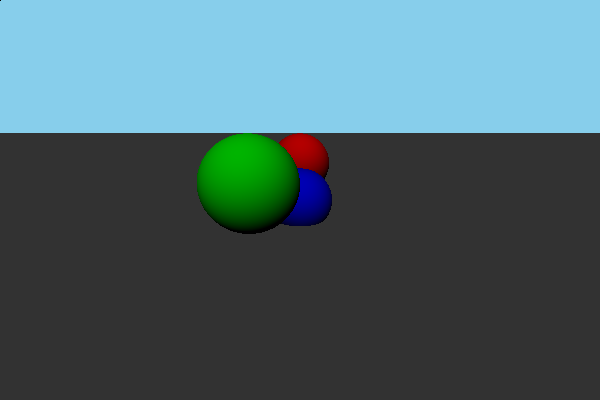
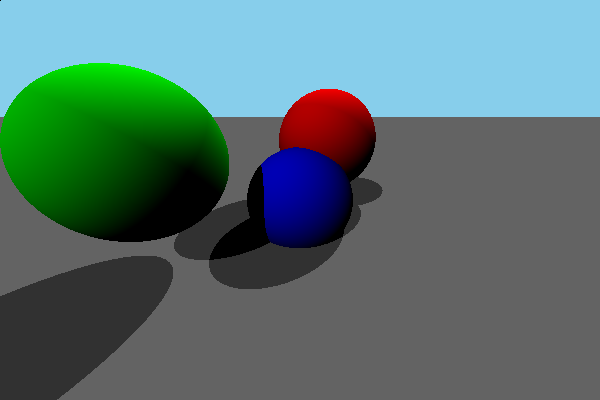
Added multiple lights + correct shading

diff --git a/src/components/utils.rs b/src/components/utils.rs
@@ -1,17 +1,18 @@
 use super::*;
 use image::{Pixel, Rgba};
 use std::ops::{Mul,Add,Sub};
+use std::convert::TryInto;
 
 #[derive(Clone)]
 pub struct Color {
-    pub r: u8,
-    pub g: u8,
-    pub b: u8,
-    pub a: u8,
+    pub r: f32,
+    pub g: f32,
+    pub b: f32,
+    pub a: f32,
 }
 
 impl Color {
-    pub fn new(red: u8, green: u8, blue: u8, alpha: u8) -> Color {
+    pub fn new(red: f32, green: f32, blue: f32, alpha: f32) -> Color {
         Color {
             r: red,
             g: green,
@@ -21,19 +22,33 @@ impl Color {
     }
     pub fn to_rgba(&self) -> Rgba<u8> {
         Rgba {
-            0: [self.r, self.g, self.b, self.a],
+            0: [
+                ((self.r * 255.0) as u32).try_into().unwrap_or(255), 
+                ((self.g * 255.0) as u32).try_into().unwrap_or(255), 
+                ((self.b * 255.0) as u32).try_into().unwrap_or(255), 
+                ((self.a * 255.0) as u32).try_into().unwrap_or(255)
+            ],
         }
+    }
+    pub fn normalize(&mut self) {
+        self.r = self.r.min(0.0).max(0.0);
+        self.g = self.g.min(0.0).max(0.0);
+        self.b = self.b.min(0.0).max(0.0);
+        self.a = self.a.min(0.0).max(0.0);
+
     }
 }
 
 
 pub struct PointInfo {
     pub distance : f32,
-    pub normal : Vector3<f32>
+    pub normal : Vector3<f32>,
+    pub intersection : Vector3<f32>
 }
 
 pub trait Intersectable {
     fn intersect(&self, ray: &Ray) -> Option<PointInfo>;
+    fn simple_intersect(&self, ray:&Ray) -> bool;
     fn get_color(&self) -> Color;
     fn get_position(&self) -> Vector3<f32>;
     fn get_albedo(&self) -> f32;
@@ -49,21 +64,23 @@ pub enum Colors {
     WHITE,
     GREY,
     SKYBLUE,
+    BLACK
 }
 
 impl Colors {
     pub fn value(&self) -> Color {
         match self {
-            Colors::BLUE => Color::new(0, 0, 255, 255),
-            Colors::RED => Color::new(255, 0, 0, 255),
-            Colors::GREEN => Color::new(0, 255, 0, 255),
-            Colors::CYAN => Color::new(0, 255, 255, 255),
-            Colors::MAGENTA => Color::new(255, 0, 255, 255),
-            Colors::YELLOW => Color::new(255, 255, 0, 255),
-            Colors::WHITE => Color::new(255, 255, 255, 255),
-            Colors::GREY => Color::new(100, 100, 100, 255),
-            Colors::SKYBLUE => Color::new(135,206,235,255),
-            _ => Color::new(0, 0, 0, 255),
+            Colors::BLUE => Color::new(0.0,0.0, 1.0, 1.0),
+            Colors::RED => Color::new(1.0,0.0,0.0, 1.0),
+            Colors::GREEN => Color::new(0.0, 1.0,0.0, 1.0),
+            Colors::CYAN => Color::new(0.0, 1.0, 1.0, 1.0),
+            Colors::MAGENTA => Color::new(1.0,0.0, 1.0, 1.0),
+            Colors::YELLOW => Color::new(1.0, 1.0,0.0, 1.0),
+            Colors::WHITE => Color::new(1.0, 1.0, 1.0, 1.0),
+            Colors::GREY => Color::new(100.0/255.0, 100.0/255.0, 100.0/255.0, 1.0),
+            Colors::SKYBLUE => Color::new(135.0/255.0,206.0/255.0,235.0/255.0,1.0),
+            BLACK => Color::new(0.0,0.0,0.0, 1.0),
+            _ => Color::new(0.0,0.0,0.0, 1.0)
         }
     }
 }
@@ -72,10 +89,10 @@ impl Mul<f32> for Color {
     type Output = Color;
     fn mul(self, value : f32) -> Color {
         Color {
-            r : ((self.r as f32) * value) as u8,
-            g : ((self.g as f32) * value) as u8,
-            b : ((self.b as f32) * value) as u8,
-            a : ((self.a as f32) * value) as u8,
+            r : self.r * value,
+            g : self.g * value,
+            b : self.b * value,
+            a : self.a * value,
         }
     }
 }
@@ -83,10 +100,10 @@ impl Mul<Color> for Color {
     type Output = Color;
     fn mul(self, value : Color) -> Color {
         Color {
-            r : self.r.checked_mul(value.r).unwrap_or(255),
-            g : self.g.checked_mul(value.g).unwrap_or(255),
-            b : self.b.checked_mul(value.b).unwrap_or(255),
-            a : self.a.checked_mul(value.r).unwrap_or(255),
+            r : self.r * value.r,
+            g : self.g * value.g,
+            b : self.b * value.b,
+            a : self.a * value.a,
         }
     }
 }
@@ -94,10 +111,10 @@ impl Add<Color> for Color {
     type Output = Color;
     fn add(self, value : Color) -> Color {
         Color {
-            r : self.r.checked_add(value.r).unwrap_or(255),
-            g : self.g.checked_add(value.g).unwrap_or(255),
-            b : self.b.checked_add(value.b).unwrap_or(255),
-            a : self.a.checked_add(value.r).unwrap_or(255),
+            r : self.r + value.r,
+            g : self.g + value.g,
+            b : self.b + value.b,
+            a : self.a + value.a
         }
     }
 }
@@ -105,10 +122,10 @@ impl Sub<Color> for Color {
     type Output = Color;
     fn sub(self, value : Color) -> Color {
         Color {
-            r : self.r.checked_sub(value.r).unwrap_or(0),
-            g : self.g.checked_sub(value.g).unwrap_or(0),
-            b : self.b.checked_sub(value.b).unwrap_or(0),
-            a : self.a.checked_sub(value.r).unwrap_or(0),
+            r : self.r - value.r,
+            g : self.g - value.g,
+            b : self.b - value.b,
+            a : self.a - value.a
         }
     }
 }

diff --git a/src/components/scene.rs b/src/components/scene.rs
@@ -9,7 +9,7 @@ pub struct Scene {
     pub fov: f32,
     pub camera: Camera,
     pub elements: Vec<Box<dyn Intersectable>>,
-    pub directional_light : DirectionalLight
+    pub lights : Vec<DirectionalLight>
 }
 
 impl Scene {
@@ -30,11 +30,18 @@ impl Scene {
                 Box::new(Sphere::new(1f32, 1f32, -1f32,Colors::GREEN,1.0)),
                 Box::new(Plane::new()),
             ],
-            directional_light : DirectionalLight {
-                direction : Vector3::new(0f32,-1f32,-1f32),
-                color : Colors::WHITE.value(),
-                intensity : 0.5
-            }
+            lights : vec![
+                DirectionalLight {
+                    direction : Vector3::new(0f32,-1f32,-1f32),
+                    color : Colors::WHITE.value(),
+                    intensity : 0.5
+                },
+                DirectionalLight {
+                    direction : Vector3::new(0f32,-1f32,1f32),
+                    color : Colors::WHITE.value(),
+                    intensity : 0.5
+                }
+            ]
             
         };
         result.camera.change_rotation(
@@ -43,7 +50,7 @@ impl Scene {
         result
     }
     pub fn fire_rays(&self, image: &mut DynamicImage) -> DynamicImage {
-        let mut temp: (Color, f32) = (Color::new(0, 0, 0, 0), std::f32::MAX);
+        let mut temp: (Color, f32) = (Color::new(0.0, 0.0, 0.0, 0.0), std::f32::MAX);
         for x in 0..self.width {
             for y in 0..self.height {
                 for element in &self.elements {
@@ -51,12 +58,27 @@ impl Scene {
                     match element.intersect(&ray) {
                         Some(d) => {
                             if d.distance < temp.1 {
-                                let intensity = d.normal.dot(&(-self.directional_light.direction)).max(0.0) * self.directional_light.intensity;
-                                let reflected = element.get_albedo();
+                                let mut color = Colors::BLACK.value();
+                                for light in &self.lights {
+                                    let intensity = d.normal.dot(&(-light.direction)).max(0.0) * light.intensity;
+                                    let reflected = element.get_albedo();
+                                    let absorbed = Colors::WHITE.value() - element.get_color();
+                                    let final_color = light.color.clone() - absorbed;
+                                    let shadowed = self.is_shadowed(
+                                        &Ray {
+                                            origin : d.intersection + 1e-5 * d.normal,
+                                            direction  : -light.direction.normalize()
+                                        },
+                                    );
+                                    color = color + match shadowed {
+                                        false => final_color  * intensity * reflected,
+                                        true => final_color  * 0.0 * reflected,
+                                    };
+
+                                }
+                                
                                 temp.1 = d.distance;
-                                let absorbed = Colors::WHITE.value() - element.get_color();
-                                let final_color = self.directional_light.color.clone() - absorbed;
-                                temp.0 = final_color  * intensity * reflected;
+                                temp.0  = color;
                                
                             }
                         }
@@ -68,6 +90,16 @@ impl Scene {
             }
         }
         image.clone()
+    }
+    pub fn is_shadowed(&self, ray : &Ray) -> bool {
+        let mut result = false;
+        for element in &self.elements {
+            match element.intersect(ray) {
+                Some(_) => result = true,
+                _ => ()
+            }
+        }
+        result
     }
 }
 

diff --git a/src/components/plane.rs b/src/components/plane.rs
@@ -20,6 +20,11 @@ impl Plane {
 }
 
 impl Intersectable for Plane {
+    fn simple_intersect(&self, ray: &Ray) -> bool {
+        let normal = &self.normal;
+        let denom = normal.dot(&ray.direction);
+        denom > 1e-6
+    }
     fn intersect(&self, ray: &Ray) -> Option<PointInfo> {
         let normal = &self.normal;
         let denom = normal.dot(&ray.direction);
@@ -30,7 +35,8 @@ impl Intersectable for Plane {
                 return Some(
                     PointInfo {
                         distance : distance,
-                        normal : -self.normal
+                        normal : -self.normal,
+                        intersection : ray.origin + ray.direction * distance
                     }
                 );
             }

diff --git a/src/components/sphere.rs b/src/components/sphere.rs
@@ -21,6 +21,13 @@ impl Sphere {
 }
 
 impl Intersectable for Sphere {
+    fn simple_intersect(&self, ray: &Ray) -> bool {
+        let l = self.center - ray.origin;
+        let adj = l.dot(&ray.direction);
+        let d2 = l.dot(&l) - (adj * adj);
+        let radius2 = self.radius * self.radius;
+        d2 > radius2
+    }
     fn intersect(&self, ray: &Ray) -> Option<PointInfo> {
         let l = self.center - ray.origin;
         let adj = l.dot(&ray.direction);
@@ -43,7 +50,8 @@ impl Intersectable for Sphere {
         Some(
             PointInfo{
                 distance : distance,
-                normal : normal.normalize()
+                normal : normal.normalize(),
+                intersection : hitpoint
             }
         )
     }

diff --git a/src/main.rs b/src/main.rs
@@ -28,7 +28,7 @@ fn render_multiple_scenes() {
     threads.push(thread::spawn(move || {
         let result = render_scene(
             &Scene::new(
-                Vector3::new(0f32,2f32,3f32)
+                Vector3::new(-2f32, 1.5f32, 0f32)
             )
         );
         println!("Rendering 2 done");
@@ -58,7 +58,7 @@ fn render_scene(scene: &Scene) -> DynamicImage {
     let mut image = DynamicImage::new_rgb8(scene.width, scene.height);
     for x in 0..scene.width {
         for y in 0..scene.height {
-            image.put_pixel(x, y, Color::new(0u8, 0u8, 255u8, 255).to_rgba());
+            image.put_pixel(x, y, Colors::BLACK.value().to_rgba());
         }
     }
     image = scene.fire_rays(&mut image);

diff --git a/src/components/ray.rs b/src/components/ray.rs
@@ -24,7 +24,7 @@ impl Ray {
     }
     pub fn from_camera(x: u32, y: u32, scene: &Scene) -> Ray {
         assert!(scene.width > scene.height);
-        let fov_adjustment = (scene.fov.to_radians() / 2.0).tan();
+        let fov_adjustment = (scene.camera.fov.to_radians() / 2.0).tan();
         let aspect_ratio = (scene.width as f32) / (scene.height as f32);
         let dir_x = ((((x as f32 + 0.5) / scene.width as f32) * 2.0 - 1.0) * aspect_ratio) * fov_adjustment;
         let dir_y = 1.0 - ((y as f32 + 0.5) / scene.height as f32) * 2.0;

diff --git a/src/components/camera.rs b/src/components/camera.rs
@@ -19,7 +19,7 @@ impl Camera {
             rotation: Rotation3::face_towards(&direction,&Vector3::y()),
             width: 600,
             height: 400,
-            fov: 70f32,
+            fov: 90f32,
         }
     }
     pub fn change_rotation(&mut self, dir : Vector3<f32>) {
